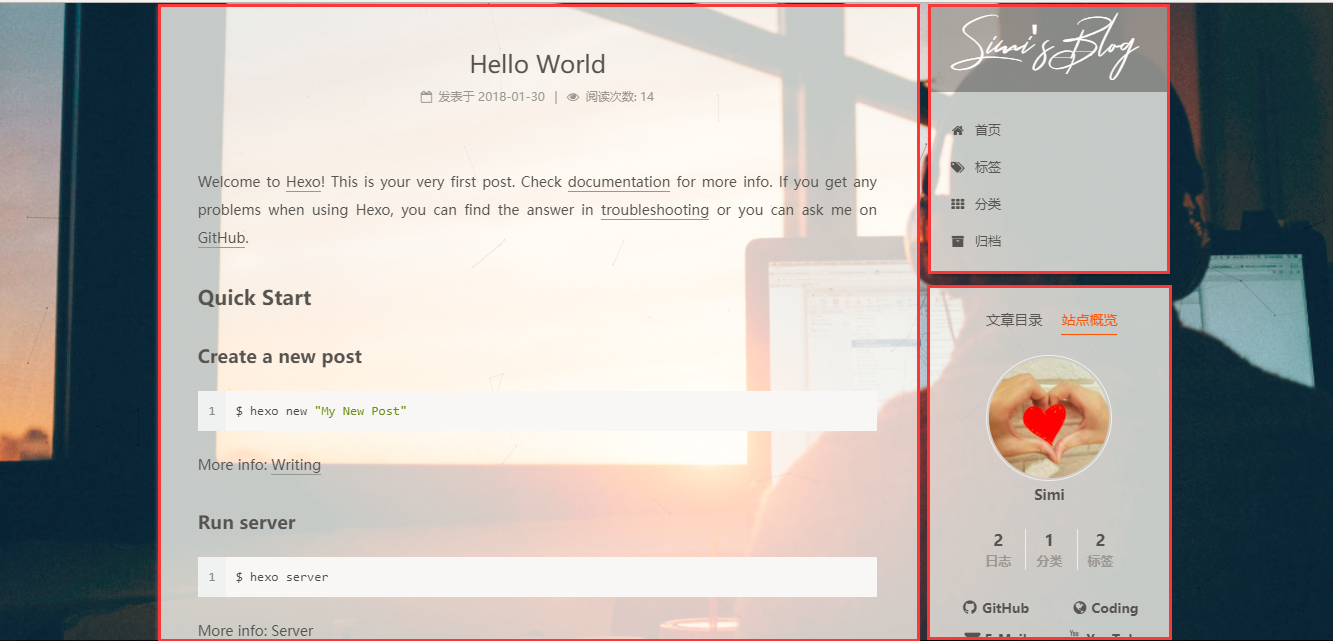
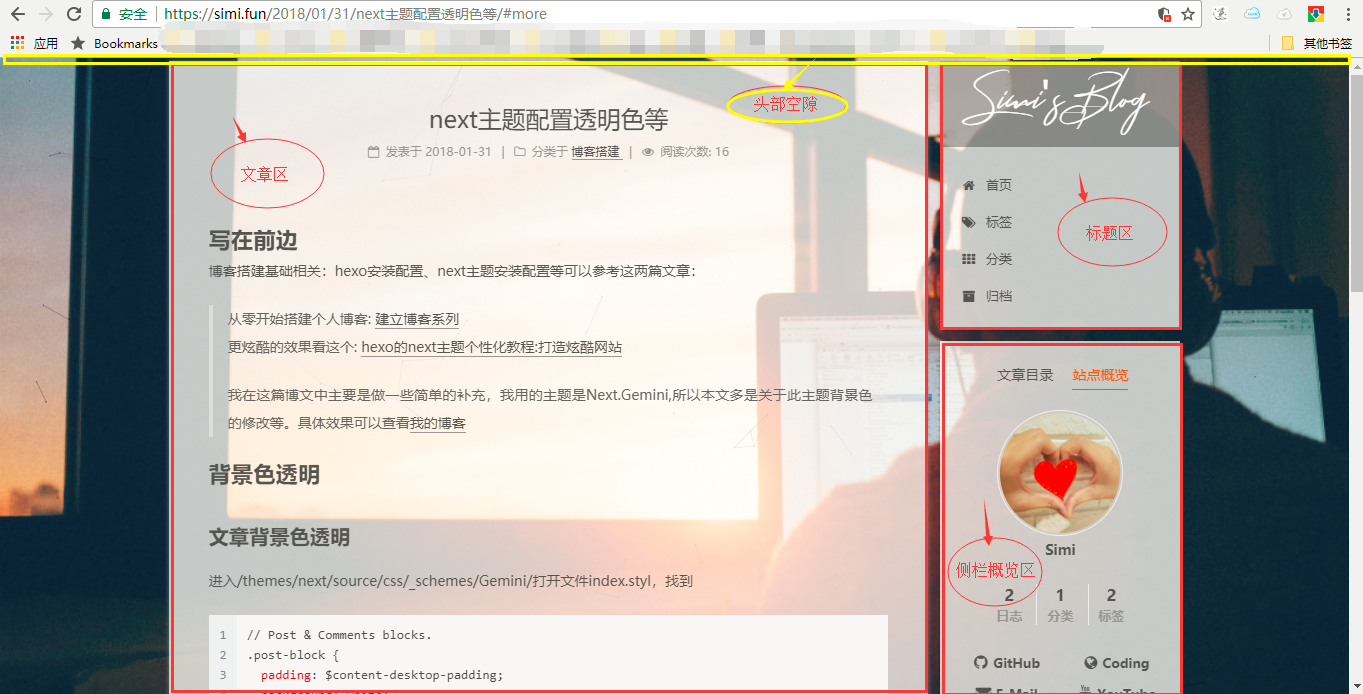
Site updated: 2018-01-31 12:42:25

diff --git a/2018/01/31/next主题配置透明色等/index.html b/2018/01/31/next主题配置透明色等/index.html
@@ -75,7 +75,7 @@
 
 
 
-  <meta name="keywords" content="next,透明," />
+  <meta name="keywords" content="透明,next主题," />
 
 
 
@@ -86,18 +86,20 @@
 
 
 
-<meta name="description" content="写在前边博客搭建基础相关：hexo安装配置、next主题安装配置等可以参考这两篇文章：  从零开始搭建个人博客: 建立博客系列更炫酷的效果看这个: hexo的next主题个性化教程:打造炫酷网站 我在这篇博文中主要是做一些简单的补充，我用的主题是Next.Gemini,所以本文多是关于此主题背景色的修改等。具体效果可以查看我的博客  背景色透明文章背景色透明进入/themes/next/sourc">
-<meta name="keywords" content="next,透明">
+<meta name="description" content="写在前边博客搭建基础相关：hexo安装配置、next主题安装配置等可以参考这两篇文章：  从零开始搭建个人博客: 建立博客系列更炫酷的效果看这个: hexo的next主题个性化教程:打造炫酷网站 我在这篇博文中主要是做一些简单的补充，我用的主题是Next.Gemini v6.0.0版本,所以本文多是关于此主题背景色的修改等。具体效果可以查看我的博客以下命名可能不准确，同学们可以参照我截的一张图：其">
+<meta name="keywords" content="透明,next主题">
 <meta property="og:type" content="article">
 <meta property="og:title" content="next主题配置透明色等">
 <meta property="og:url" content="http://yoursite.com/2018/01/31/next主题配置透明色等/index.html">
 <meta property="og:site_name" content="Simi&#39;s Blog">
-<meta property="og:description" content="写在前边博客搭建基础相关：hexo安装配置、next主题安装配置等可以参考这两篇文章：  从零开始搭建个人博客: 建立博客系列更炫酷的效果看这个: hexo的next主题个性化教程:打造炫酷网站 我在这篇博文中主要是做一些简单的补充，我用的主题是Next.Gemini,所以本文多是关于此主题背景色的修改等。具体效果可以查看我的博客  背景色透明文章背景色透明进入/themes/next/sourc">
+<meta property="og:description" content="写在前边博客搭建基础相关：hexo安装配置、next主题安装配置等可以参考这两篇文章：  从零开始搭建个人博客: 建立博客系列更炫酷的效果看这个: hexo的next主题个性化教程:打造炫酷网站 我在这篇博文中主要是做一些简单的补充，我用的主题是Next.Gemini v6.0.0版本,所以本文多是关于此主题背景色的修改等。具体效果可以查看我的博客以下命名可能不准确，同学们可以参照我截的一张图：其">
 <meta property="og:locale" content="zh-Hans">
-<meta property="og:updated_time" content="2018-01-31T03:21:58.029Z">
+<meta property="og:image" content="http://yoursite.com/2018/01/31/next主题配置透明色等/1.png">
+<meta property="og:updated_time" content="2018-01-31T04:42:13.919Z">
 <meta name="twitter:card" content="summary">
 <meta name="twitter:title" content="next主题配置透明色等">
-<meta name="twitter:description" content="写在前边博客搭建基础相关：hexo安装配置、next主题安装配置等可以参考这两篇文章：  从零开始搭建个人博客: 建立博客系列更炫酷的效果看这个: hexo的next主题个性化教程:打造炫酷网站 我在这篇博文中主要是做一些简单的补充，我用的主题是Next.Gemini,所以本文多是关于此主题背景色的修改等。具体效果可以查看我的博客  背景色透明文章背景色透明进入/themes/next/sourc">
+<meta name="twitter:description" content="写在前边博客搭建基础相关：hexo安装配置、next主题安装配置等可以参考这两篇文章：  从零开始搭建个人博客: 建立博客系列更炫酷的效果看这个: hexo的next主题个性化教程:打造炫酷网站 我在这篇博文中主要是做一些简单的补充，我用的主题是Next.Gemini v6.0.0版本,所以本文多是关于此主题背景色的修改等。具体效果可以查看我的博客以下命名可能不准确，同学们可以参照我截的一张图：其">
+<meta name="twitter:image" content="http://yoursite.com/2018/01/31/next主题配置透明色等/1.png">
 
 
 
@@ -362,11 +364,12 @@
         <h1 id="写在前边"><a href="#写在前边" class="headerlink" title="写在前边"></a>写在前边</h1><p>博客搭建基础相关：hexo安装配置、next主题安装配置等可以参考这两篇文章：</p>
 <blockquote>
 <p>从零开始搭建个人博客: <a href="http://windliang.cc/2017/01/18/%E5%BB%BA%E7%AB%8B%E5%8D%9A%E5%AE%A2%E7%B3%BB%E5%88%97%EF%BC%88%E4%B8%80%EF%BC%89%EF%BC%9A%E5%9F%9F%E5%90%8D%E7%9B%B8%E5%85%B3%E7%9F%A5%E8%AF%86/" target="_blank" rel="noopener">建立博客系列</a><br>更炫酷的效果看这个: <a href="http://shenzekun.cn/hexo%E7%9A%84next%E4%B8%BB%E9%A2%98%E4%B8%AA%E6%80%A7%E5%8C%96%E9%85%8D%E7%BD%AE%E6%95%99%E7%A8%8B.html" target="_blank" rel="noopener">hexo的next主题个性化教程:打造炫酷网站</a></p>
-<p>我在这篇博文中主要是做一些简单的补充，我用的主题是Next.Gemini,所以本文多是关于此主题背景色的修改等。具体效果可以查看<a href="https://simi.fun/" target="_blank" rel="noopener">我的博客</a></p>
+<p>我在这篇博文中主要是做一些简单的补充，我用的主题是Next.Gemini v6.0.0版本,所以本文多是关于此主题背景色的修改等。具体效果可以查看<a href="https://simi.fun/" target="_blank" rel="noopener">我的博客</a><br>以下命名可能不准确，同学们可以参照我截的一张图：<br><img src="/2018/01/31/next主题配置透明色等/1.png" alt=" "><br>其他next主题大同小异，找不到的同学可以留言。</p>
 </blockquote>
-<h1 id="背景色透明"><a href="#背景色透明" class="headerlink" title="背景色透明"></a>背景色透明</h1><h2 id="文章背景色透明"><a href="#文章背景色透明" class="headerlink" title="文章背景色透明"></a>文章背景色透明</h2><p>进入/themes/next/source/css/_schemes/Gemini/打开文件index.styl，找到<br><figure class="highlight css"><table><tr><td class="gutter"><pre><span class="line">1</span><br><span class="line">2</span><br><span class="line">3</span><br><span class="line">4</span><br><span class="line">5</span><br><span class="line">6</span><br><span class="line">7</span><br></pre></td><td class="code"><pre><span class="line">// Post &amp; Comments blocks.</span><br><span class="line"><span class="selector-class">.post-block</span> &#123;</span><br><span class="line">  <span class="attribute">padding</span>: $content-desktop-padding;</span><br><span class="line">  <span class="attribute">background</span>: white;</span><br><span class="line">  <span class="attribute">box-shadow</span>: $box-shadow-inner;</span><br><span class="line">  <span class="attribute">border-radius</span>: $border-radius-inner;</span><br><span class="line">&#125;</span><br></pre></td></tr></table></figure></p>
+<h1 id="背景色透明"><a href="#背景色透明" class="headerlink" title="背景色透明"></a>背景色透明</h1><h2 id="文章背景色透明"><a href="#文章背景色透明" class="headerlink" title="文章背景色透明"></a><span id="post-block">文章背景色透明</span></h2><p>进入/themes/next/source/css/_schemes/Gemini/打开文件index.styl，找到<br><figure class="highlight css"><table><tr><td class="gutter"><pre><span class="line">1</span><br><span class="line">2</span><br><span class="line">3</span><br><span class="line">4</span><br><span class="line">5</span><br><span class="line">6</span><br><span class="line">7</span><br></pre></td><td class="code"><pre><span class="line">// Post &amp; Comments blocks.</span><br><span class="line"><span class="selector-class">.post-block</span> &#123;</span><br><span class="line">  <span class="attribute">padding</span>: $content-desktop-padding;</span><br><span class="line">  <span class="attribute">background</span>: white;</span><br><span class="line">  <span class="attribute">box-shadow</span>: $box-shadow-inner;</span><br><span class="line">  <span class="attribute">border-radius</span>: $border-radius-inner;</span><br><span class="line">&#125;</span><br></pre></td></tr></table></figure></p>
 <p>在其后加入一段：<br><figure class="highlight css"><table><tr><td class="gutter"><pre><span class="line">1</span><br><span class="line">2</span><br><span class="line">3</span><br></pre></td><td class="code"><pre><span class="line"><span class="selector-class">.post-block</span> &#123;</span><br><span class="line">  <span class="attribute">background</span>: <span class="built_in">rgba</span>(255,255,255,.75) none repeat scroll <span class="meta">!important</span>;</span><br><span class="line">&#125;</span><br></pre></td></tr></table></figure></p>
 <p>Tips：这里掌握css的同学应该知道rgba的第四个参数就是改变透明度的，越接近0透明度越高，大家可以自行选择。<br>之后hexo g，hexo d 打开博客即可看到文章背景板已经变透明了。</p>
+<h2 id="评论区背景色透明"><a href="#评论区背景色透明" class="headerlink" title="评论区背景色透明"></a>评论区背景色透明</h2><p>评论区背景色设置同上 <a href="#post-block">文章背景色透明</a>，进入同一级目录，打开index.styl，与前面不同的是你需要找到.comment{…}，同样的在其后插入刚才一样的代码，注意此处插入的样式名是comment。</p>
 
       
     </div>
@@ -417,9 +420,9 @@
       
         <div class="post-tags">
           
-            <a href="/tags/next/" rel="tag"># next</a>
-          
             <a href="/tags/透明/" rel="tag"># 透明</a>
+          
+            <a href="/tags/next主题/" rel="tag"># next主题</a>
           
         </div>
       
@@ -574,7 +577,7 @@ var jiathis_config={
               
               <div class="site-state-item site-state-tags">
                 <a href="/tags/index.html">
-                  <span class="site-state-item-count">2</span>
+                  <span class="site-state-item-count">3</span>
                   <span class="site-state-item-name">标签</span>
                 </a>
               </div>
@@ -635,7 +638,7 @@ var jiathis_config={
             
 
             
-              <div class="post-toc-content"><ol class="nav"><li class="nav-item nav-level-1"><a class="nav-link" href="#写在前边"><span class="nav-number">1.</span> <span class="nav-text">写在前边</span></a></li><li class="nav-item nav-level-1"><a class="nav-link" href="#背景色透明"><span class="nav-number">2.</span> <span class="nav-text">背景色透明</span></a><ol class="nav-child"><li class="nav-item nav-level-2"><a class="nav-link" href="#文章背景色透明"><span class="nav-number">2.1.</span> <span class="nav-text">文章背景色透明</span></a></li></ol></li></ol></div>
+              <div class="post-toc-content"><ol class="nav"><li class="nav-item nav-level-1"><a class="nav-link" href="#写在前边"><span class="nav-number">1.</span> <span class="nav-text">写在前边</span></a></li><li class="nav-item nav-level-1"><a class="nav-link" href="#背景色透明"><span class="nav-number">2.</span> <span class="nav-text">背景色透明</span></a><ol class="nav-child"><li class="nav-item nav-level-2"><a class="nav-link" href="#文章背景色透明"><span class="nav-number">2.1.</span> <span class="nav-text">文章背景色透明</span></a></li><li class="nav-item nav-level-2"><a class="nav-link" href="#评论区背景色透明"><span class="nav-number">2.2.</span> <span class="nav-text">评论区背景色透明</span></a></li></ol></li></ol></div>
             
 
           </div>

diff --git a/tags/next主题/index.html b/tags/next主题/index.html
@@ -88,7 +88,7 @@
 
 <meta property="og:type" content="website">
 <meta property="og:title" content="Simi&#39;s Blog">
-<meta property="og:url" content="http://yoursite.com/tags/next/index.html">
+<meta property="og:url" content="http://yoursite.com/tags/next主题/index.html">
 <meta property="og:site_name" content="Simi&#39;s Blog">
 <meta property="og:locale" content="zh-Hans">
 <meta name="twitter:card" content="summary">
@@ -122,13 +122,13 @@
 
 
 
-  <link rel="canonical" href="http://yoursite.com/tags/next/"/>
+  <link rel="canonical" href="http://yoursite.com/tags/next主题/"/>
 
 
 
 
 
-  <title>标签: next | Simi's Blog</title>
+  <title>标签: next主题 | Simi's Blog</title>
   
 
 
@@ -247,7 +247,7 @@
 
     <div id="posts" class="posts-collapse">
       <div class="collection-title">
-        <h1>next<small>标签</small>
+        <h1>next主题<small>标签</small>
         </h1>
       </div>
 
@@ -357,7 +357,7 @@
               
               <div class="site-state-item site-state-tags">
                 <a href="/tags/index.html">
-                  <span class="site-state-item-count">2</span>
+                  <span class="site-state-item-count">3</span>
                   <span class="site-state-item-name">标签</span>
                 </a>
               </div>

diff --git a/css/main.css b/css/main.css
@@ -189,7 +189,7 @@ body {
   font-size: 14px;
   line-height: 2;
   color: #555;
-  background: transparent;
+  background: #222;
 }
 @media (max-width: 767px) {
   body {
@@ -1059,7 +1059,7 @@ pre .javascript .function {
 .back-to-top {
   display: none;
   margin: 20px -10px -20px;
-  background: transparent;
+  background: #222;
   font-size: 12px;
   opacity: 0.6;
   cursor: pointer;
@@ -2082,7 +2082,7 @@ img:hover {
   width: 4px;
   height: 4px;
   border-radius: 50%;
-  background: #e39db8;
+  background: #30ff65;
 }
 .links-of-blogroll {
   font-size: 13px;
@@ -2951,7 +2951,7 @@ img:hover {
   float: left;
   margin-top: 300px;
   width: 240px;
-  background: transparent;
+  background: #222;
   box-shadow: none;
 }
 @media (min-width: 768px) and (max-width: 991px) {
@@ -3314,15 +3314,15 @@ img:hover {
 }
 .post-body h1 {
   font-size: 1.6em;
-  border-bottom: 1px solid transparent;
+  border-bottom: 1px solid #222;
 }
 .post-body h2 {
   font-size: 1.45em;
-  border-bottom: 1px solid transparent;
+  border-bottom: 1px solid #222;
 }
 .post-body h3 {
   font-size: 1.3em;
-  border-bottom: 1px dotted transparent;
+  border-bottom: 1px dotted #222;
 }
 .post-body h4 {
   font-size: 1.2em;

diff --git a/tags/index.html b/tags/index.html
@@ -262,10 +262,10 @@
         
           <div class="tag-cloud">
             <div class="tag-cloud-title">
-                目前共计 2 个标签
+                目前共计 3 个标签
             </div>
             <div class="tag-cloud-tags">
-              <a href="/tags/next/" style="font-size: 12px; color: #ccc">next</a> <a href="/tags/透明/" style="font-size: 12px; color: #ccc">透明</a>
+              <a href="/tags/next主题/" style="font-size: 12px; color: #ccc">next主题</a> <a href="/tags/透明/" style="font-size: 12px; color: #ccc">透明</a>
             </div>
           </div>
         
@@ -347,7 +347,7 @@
               
               <div class="site-state-item site-state-tags">
                 <a href="/tags/index.html">
-                  <span class="site-state-item-count">2</span>
+                  <span class="site-state-item-count">3</span>
                   <span class="site-state-item-name">标签</span>
                 </a>
               </div>

diff --git a/index.html b/index.html
@@ -362,7 +362,7 @@
           写在前边博客搭建基础相关：hexo安装配置、next主题安装配置等可以参考这两篇文章：
 
 从零开始搭建个人博客: 建立博客系列更炫酷的效果看这个: hexo的next主题个性化教程:打造炫酷网站
-我在这篇博文中主要是做一些简单的补充，我用的主题是Next.Gemini,所以本文多是关于此主题背景色的
+我在这篇博文中主要是做一些简单的补充，我用的主题是Next.Gemini v6.0.0版本,所以本文多是
           ...
           <!--noindex-->
           <div class="post-button text-center">
@@ -621,7 +621,7 @@
               
               <div class="site-state-item site-state-tags">
                 <a href="/tags/index.html">
-                  <span class="site-state-item-count">2</span>
+                  <span class="site-state-item-count">3</span>
                   <span class="site-state-item-name">标签</span>
                 </a>
               </div>

diff --git a/2018/01/30/hello-world/index.html b/2018/01/30/hello-world/index.html
@@ -544,7 +544,7 @@ var jiathis_config={
               
               <div class="site-state-item site-state-tags">
                 <a href="/tags/index.html">
-                  <span class="site-state-item-count">2</span>
+                  <span class="site-state-item-count">3</span>
                   <span class="site-state-item-name">标签</span>
                 </a>
               </div>

diff --git a/archives/2018/01/index.html b/archives/2018/01/index.html
@@ -414,7 +414,7 @@
               
               <div class="site-state-item site-state-tags">
                 <a href="/tags/index.html">
-                  <span class="site-state-item-count">2</span>
+                  <span class="site-state-item-count">3</span>
                   <span class="site-state-item-name">标签</span>
                 </a>
               </div>

diff --git a/archives/2018/index.html b/archives/2018/index.html
@@ -414,7 +414,7 @@
               
               <div class="site-state-item site-state-tags">
                 <a href="/tags/index.html">
-                  <span class="site-state-item-count">2</span>
+                  <span class="site-state-item-count">3</span>
                   <span class="site-state-item-name">标签</span>
                 </a>
               </div>

diff --git a/archives/index.html b/archives/index.html
@@ -414,7 +414,7 @@
               
               <div class="site-state-item site-state-tags">
                 <a href="/tags/index.html">
-                  <span class="site-state-item-count">2</span>
+                  <span class="site-state-item-count">3</span>
                   <span class="site-state-item-name">标签</span>
                 </a>
               </div>

diff --git a/categories/index.html b/categories/index.html
@@ -347,7 +347,7 @@
               
               <div class="site-state-item site-state-tags">
                 <a href="/tags/index.html">
-                  <span class="site-state-item-count">2</span>
+                  <span class="site-state-item-count">3</span>
                   <span class="site-state-item-name">标签</span>
                 </a>
               </div>

diff --git a/categories/博客搭建/index.html b/categories/博客搭建/index.html
@@ -358,7 +358,7 @@
               
               <div class="site-state-item site-state-tags">
                 <a href="/tags/index.html">
-                  <span class="site-state-item-count">2</span>
+                  <span class="site-state-item-count">3</span>
                   <span class="site-state-item-name">标签</span>
                 </a>
               </div>

diff --git a/tags/透明/index.html b/tags/透明/index.html
@@ -357,7 +357,7 @@
               
               <div class="site-state-item site-state-tags">
                 <a href="/tags/index.html">
-                  <span class="site-state-item-count">2</span>
+                  <span class="site-state-item-count">3</span>
                   <span class="site-state-item-name">标签</span>
                 </a>
               </div>
